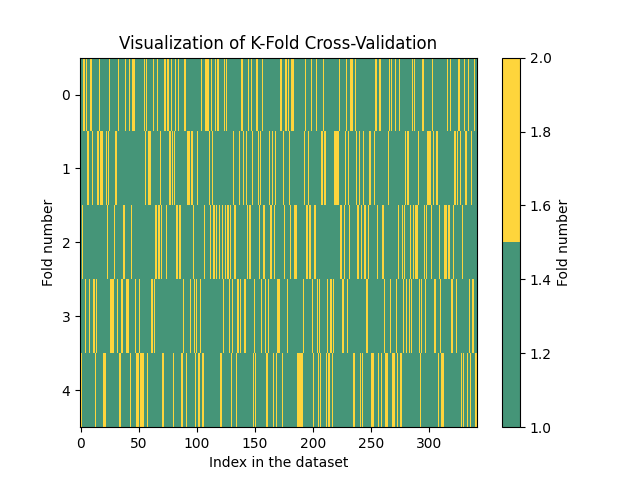
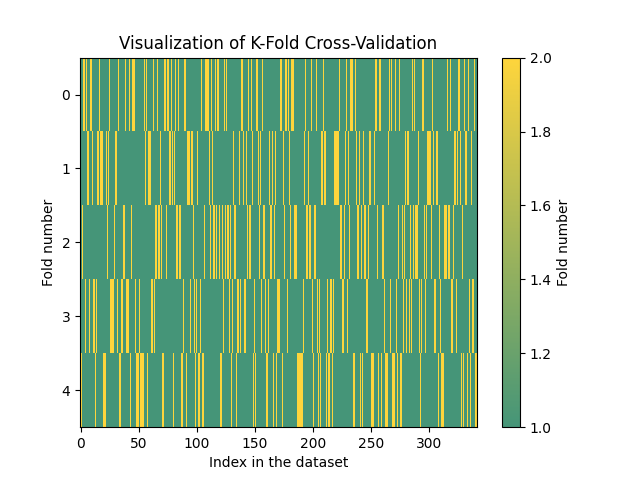
added cross validation figure and a reusable green/yellow color map in the config

Changed region(s): [[0.7812, 0.2188, 0.8125, 0.8125]]

diff --git a/CCPlots/implementation/EvaluationMetricsExample.py b/CCPlots/implementation/EvaluationMetricsExample.py
@@ -1,0 +1,39 @@
+import matplotlib.pyplot as plt
+import numpy as np
+import seaborn as sns
+
+from CCPlots.PlotExample import PlotExample
+from CCPlots.config import OUTPUT_PATH, CUSTOM_CMAP
+
+
+class EvaluationMetricsExample(PlotExample):
+
+    def main(self):
+        # Define the confusion matrix values again
+        conf_matrix = np.array([[50, 10],  # 50 True Negatives, 10 False Positives
+                                [5, 35]])  # 5 False Negatives, 35 True Positives
+
+        # Labels for the plot including counts
+        group_labels = np.array([
+            f"True Negative\n(Healthy correctly diagnosed)\n{conf_matrix[0, 0]}",
+            f"False Positive\n(Healthy misdiagnosed as sick)\n{conf_matrix[0, 1]}",
+            f"False Negative\n(Sick misdiagnosed as healthy)\n{conf_matrix[1, 0]}",
+            f"True Positive\n(Sick correctly diagnosed)\n{conf_matrix[1, 1]}"
+        ]).reshape(2, 2)
+
+        # Create the heatmap
+        plt.figure(figsize=(8, 6))
+        ax = sns.heatmap(conf_matrix, annot=group_labels, fmt="", cmap=CUSTOM_CMAP, cbar=True,
+                         xticklabels=["Predicted Healthy", "Predicted Sick"],
+                         yticklabels=["Is Healthy", "Is Sick"])
+
+        # Add labels and title
+        plt.xlabel("Predicted Label")
+        plt.ylabel("Actual Label")
+        plt.title("Evaluating Results for Disease Diagnosis")
+
+        # Show the plot
+        plt.savefig(OUTPUT_PATH + "confusion_matrix.png")
+
+if __name__ == "__main__":
+    EvaluationMetricsExample().main()

diff --git a/CCPlots/config.py b/CCPlots/config.py
@@ -1,3 +1,5 @@
+import matplotlib.colors as mcolors
+
 # Where to store the plots
 OUTPUT_PATH = "../../plots/"
 
@@ -36,3 +38,8 @@ COLOR_PALETTE = {
         "light_beige": "#FFE4B5"
     }
 }
+
+# Define a list of colors for a colour map
+CUSTOM_CMAP = mcolors.LinearSegmentedColormap.from_list("custom_cmap",
+                                                        [COLOR_PALETTE['base_colors']['medium_green'], COLOR_PALETTE['base_colors']['bright_yellow']],
+                                                        N=256)

diff --git a/CCPlots/implementation/KFoldExample.py b/CCPlots/implementation/KFoldExample.py
@@ -10,7 +10,7 @@ from CCPlots.config import OUTPUT_PATH, COLOR_PALETTE
 
 class KFoldExample(PlotExample):
 
-    # Define a list of colors
+    # Define a list of colors, in this case we specifically need two!
     colors = [COLOR_PALETTE['base_colors']['medium_green'], COLOR_PALETTE['base_colors']['bright_yellow']]
 
     def __init__(self):
